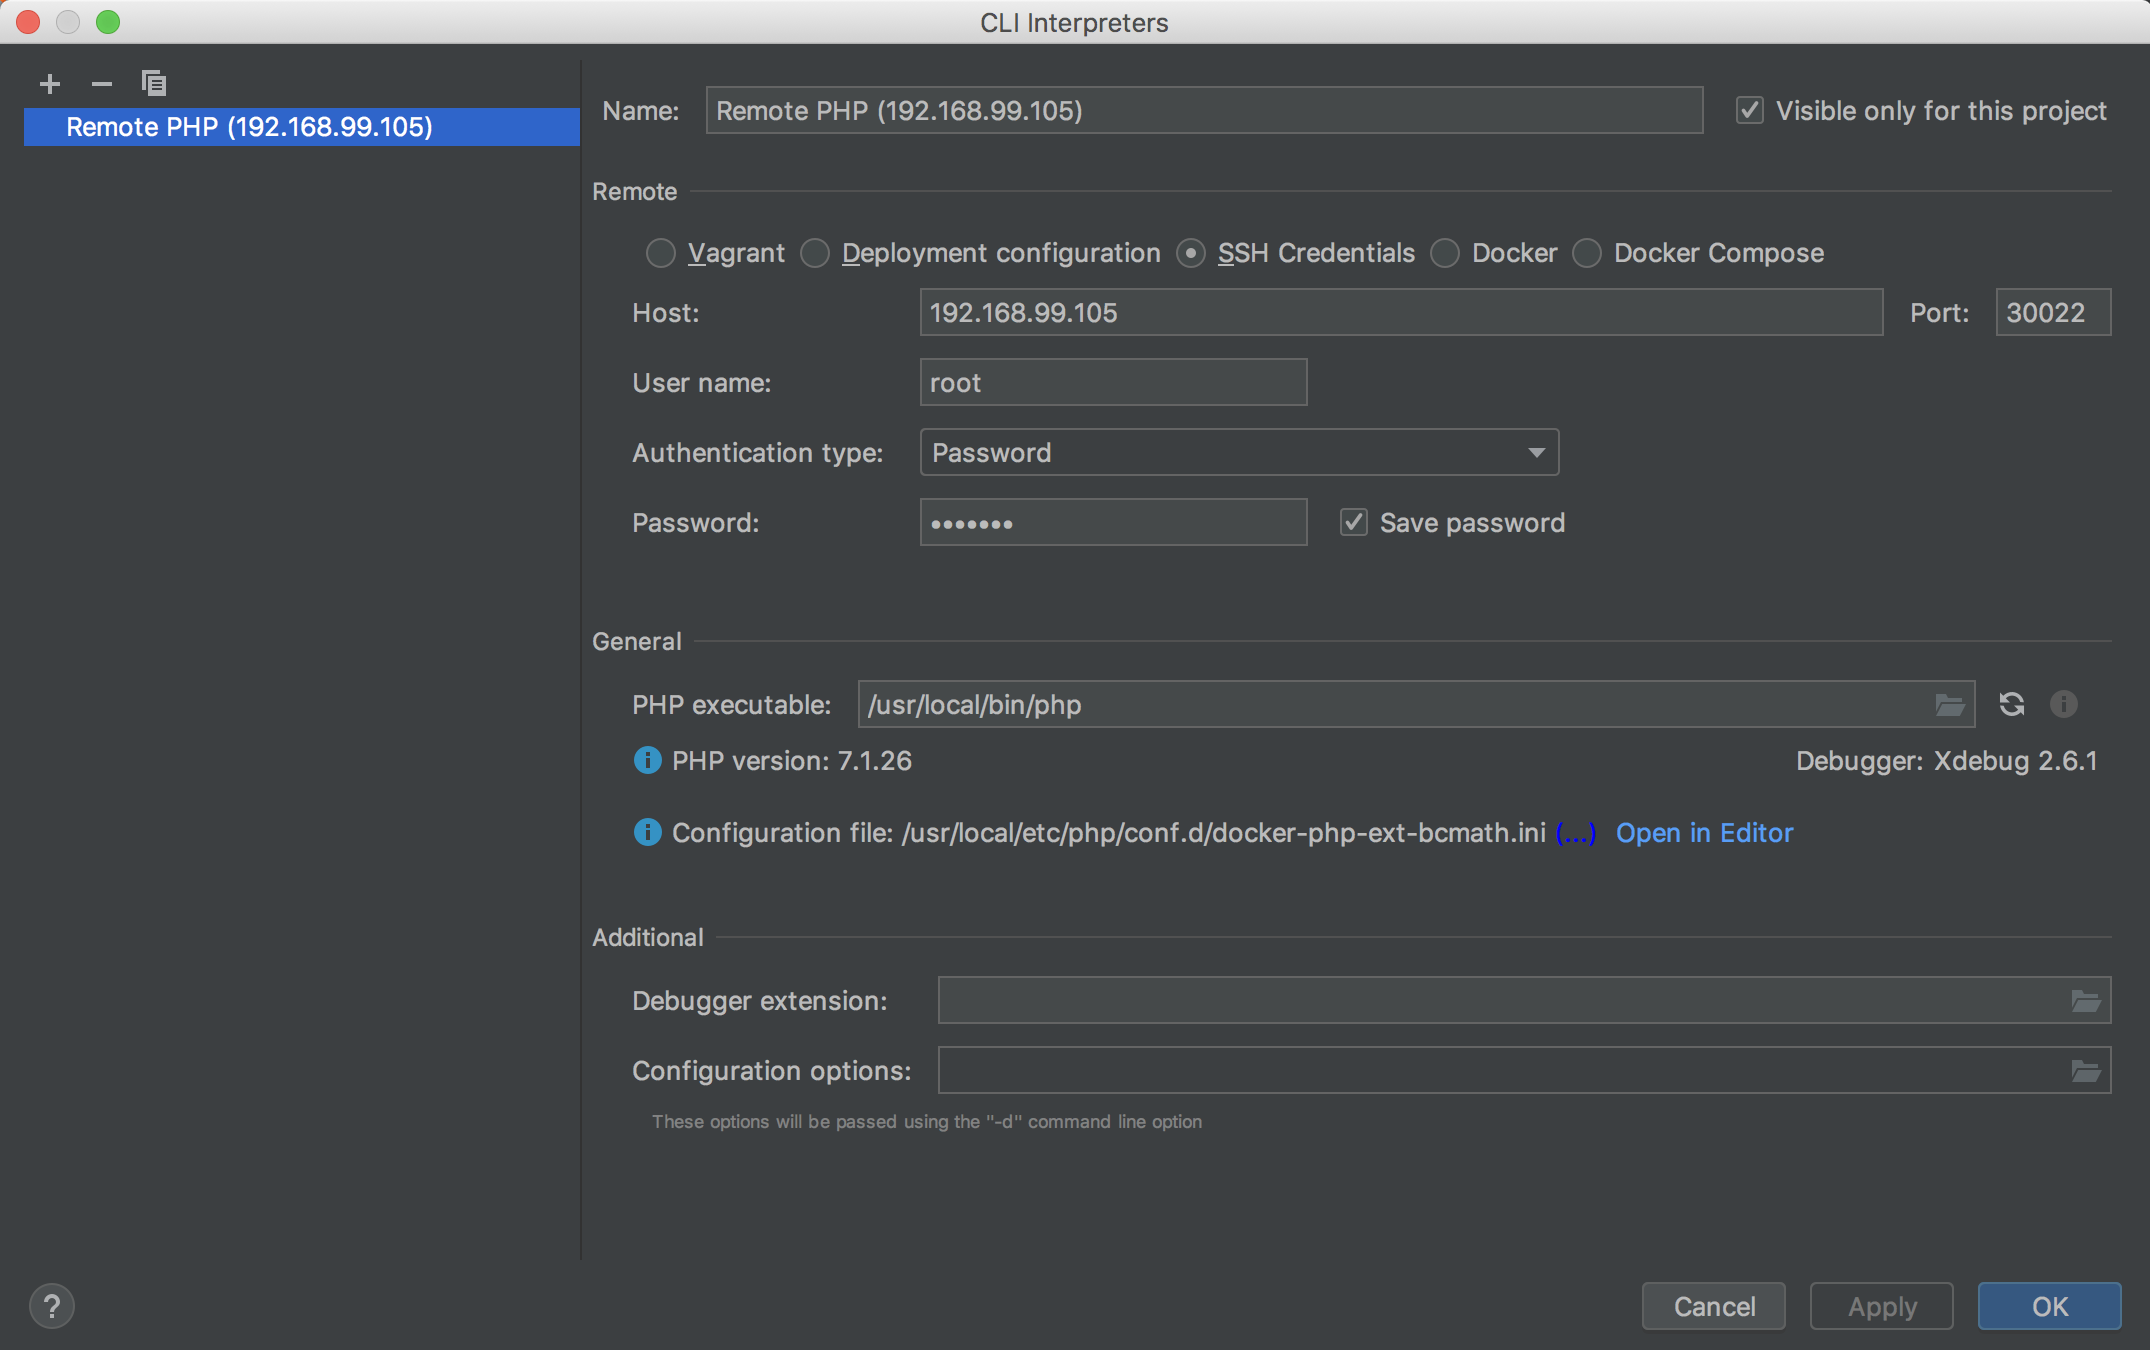
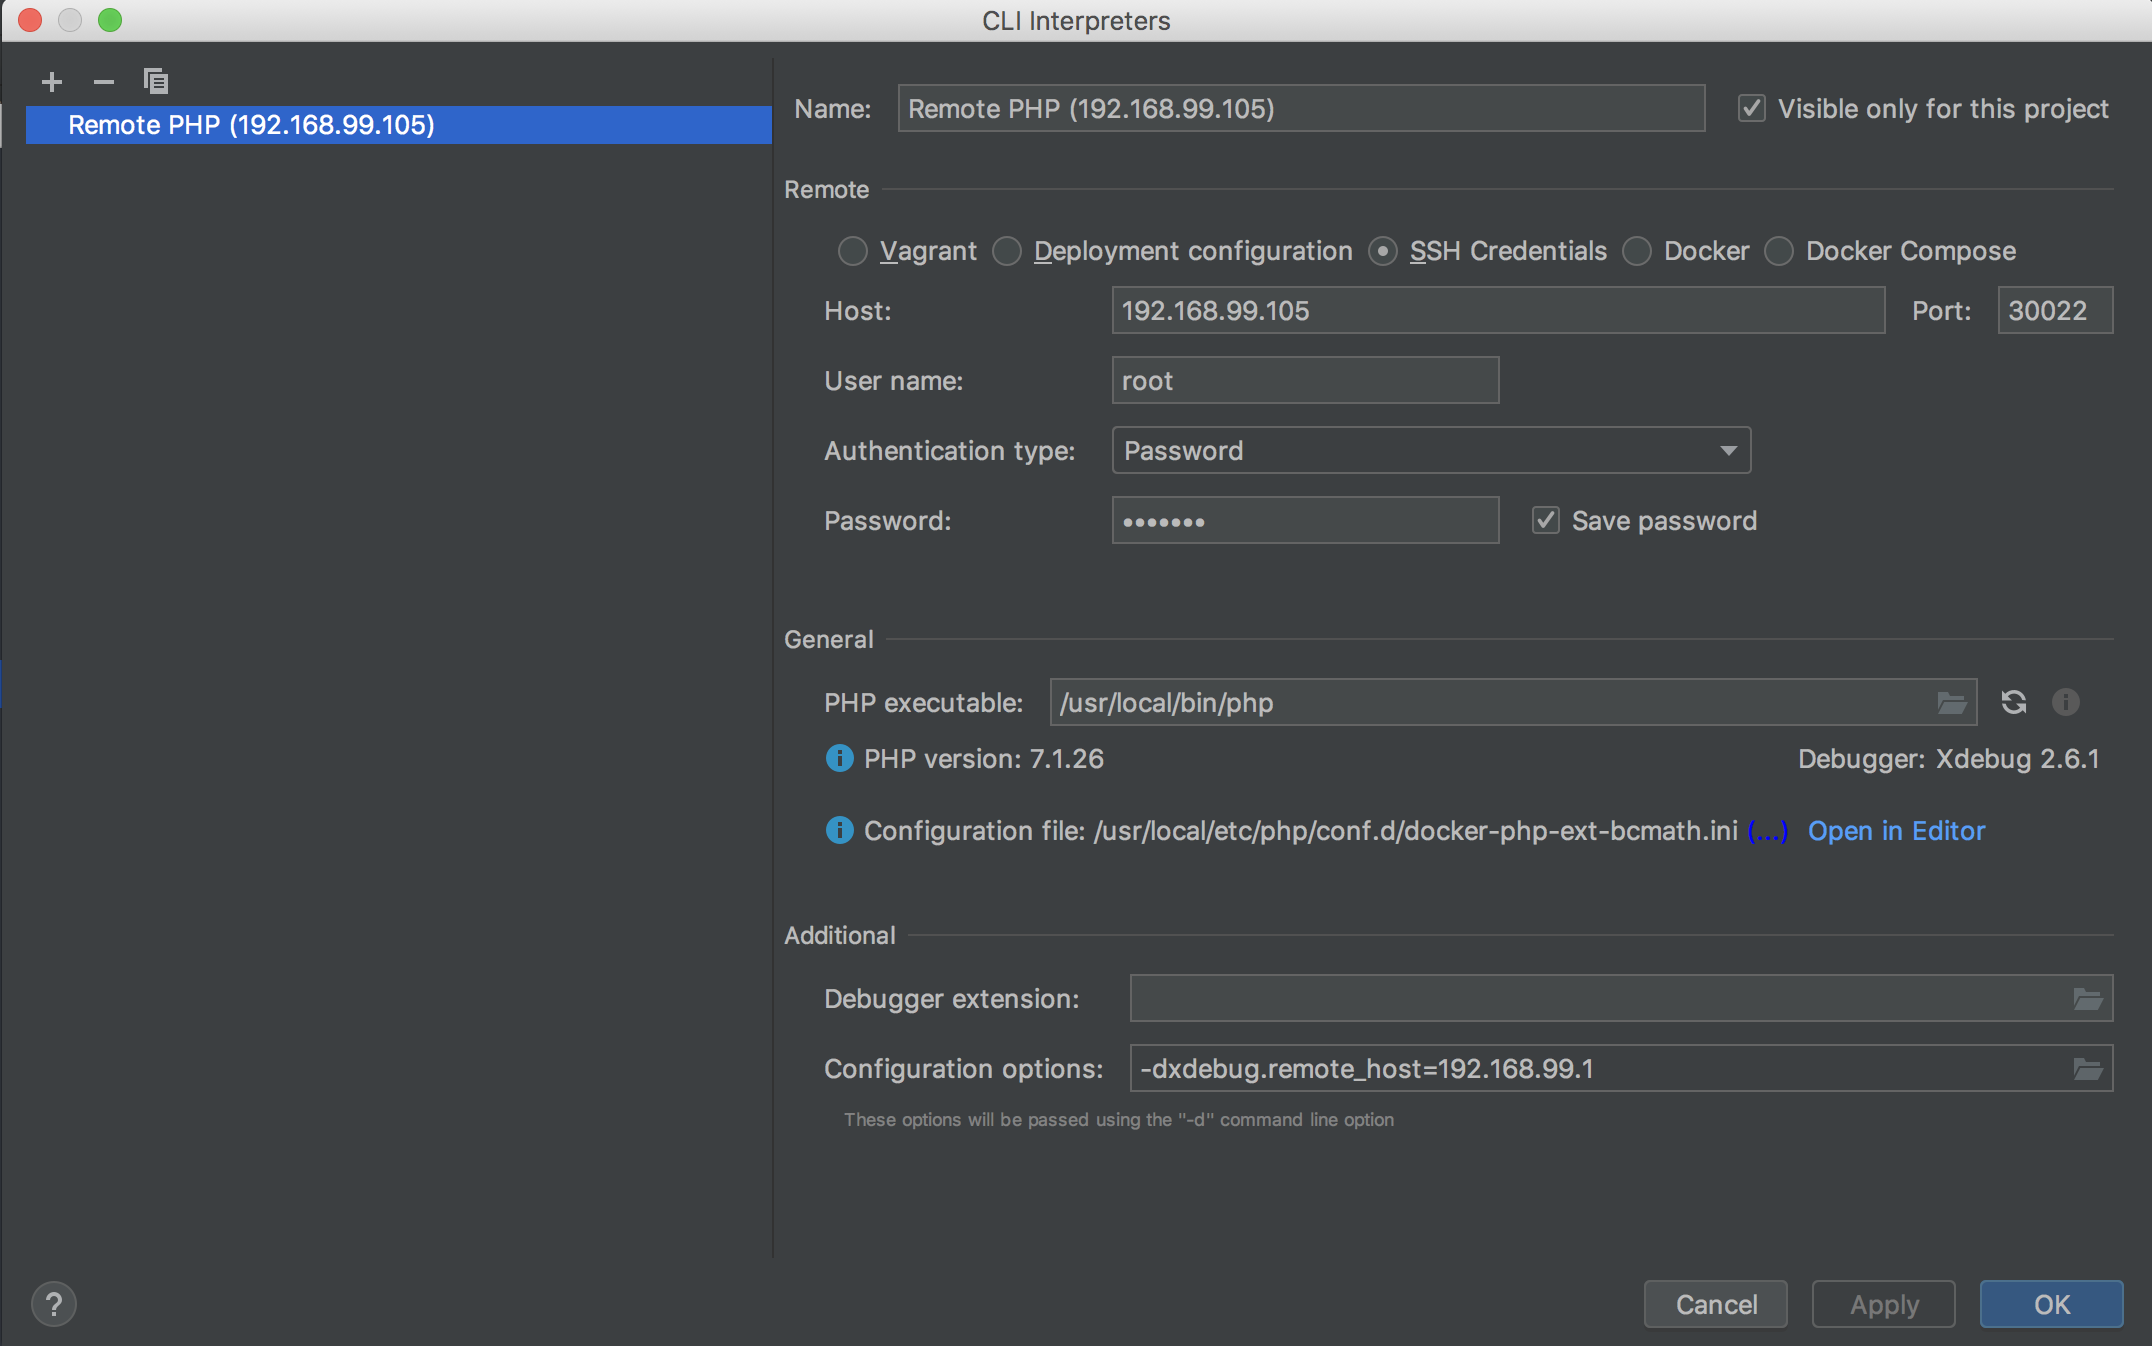
Support running tests in cluster from PhpStorm #77
- Created separate container for remote PHP
- Enabled tests debugging

diff --git a/docs/running-tests/running-tests.md b/docs/running-tests/running-tests.md
@@ -2,7 +2,7 @@
 
 It is possible to run Magento tests using remote PHP interpreter from the kubernetes cluster.
 
-1. Configure remote PHP interpreter in PhpStorm with credentials `root:123123q`. Use the IP which you get by running `minikube ip` and port `30022`
+1. Configure remote PHP interpreter in PhpStorm with credentials `root:123123q`. Use the IP which you get by running `minikube ip` and port `30022`. It is important to update `Configuration options` field for XDebug to work. 
 ![](configure-remote-php.png)
 1. Select configured remote PHP interpreter
 ![](select-remote-php.png)
